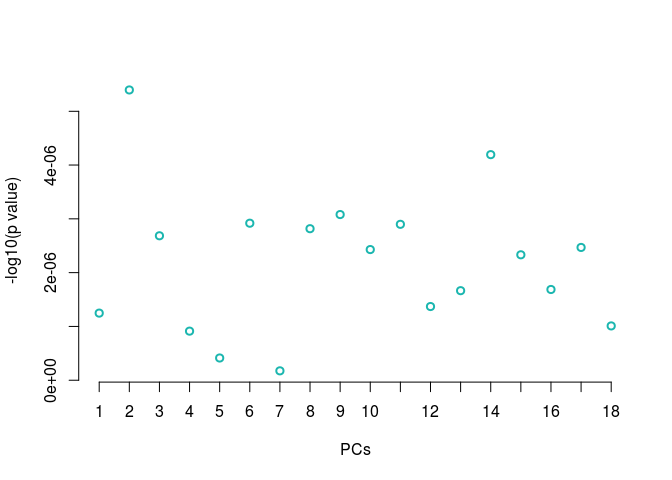
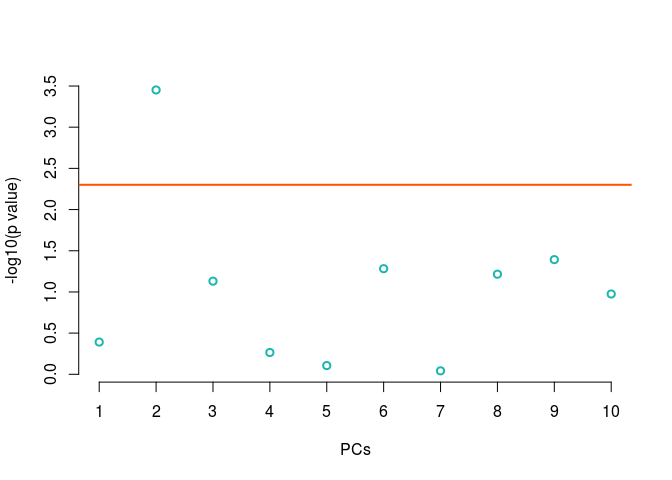
updated docs for new function

diff --git a/example.md b/example.md
@@ -31,7 +31,6 @@ library(dplyr)
 ```
 
 ```r
-library('LaCroixColoR')
 library(viridis)
 ```
 
@@ -78,13 +77,13 @@ myK = make_k(as.matrix(myG))
 #doing the eigen decomposition
 myEig = eigen(myK)
 
-plot(myEig$vectors[,1], myEig$vectors[,2], bty="n", xlab = "PC1", ylab = "PC2", col = lacroix_palette('Mango')[1])
+plot(myEig$vectors[,1], myEig$vectors[,2], bty="n", xlab = "PC1", ylab = "PC2", col = '#FF5300')
 ```
 
 ![](example_files/figure-html/kinshipmatrix-1.png)<!-- -->
 
 ```r
-plot(myEig$values/sum(myEig$values)*100, col = lacroix_palette('Mango')[3], bty="n", ylab = "% variation explained by each PC", xlab = "PC")
+plot(myEig$values/sum(myEig$values)*100, col = "#43B629", bty="n", ylab = "% variation explained by each PC", xlab = "PC")
 ```
 
 ![](example_files/figure-html/kinshipmatrix-2.png)<!-- -->
@@ -94,16 +93,15 @@ In the function:
 * myZ is a vector of trait values
 * myU is the eigen vectors of the kinship matrix
 * myLambdas is the eigen values of th ekinship matrix
-* myR is the number of PCs you want to use to estimate Va (these are PCs that correspond to smaller eigenvalues)
-* myPCcutoff is the proportion of relatedness variation you want the PCs that you test for selection to explain. So, if you want to look at the PCs that cumulatively explain 20% of relatedness variation, set pcCutoff equal to 0.2
+* myL is the range of PCs used to estimate Va
+* myM is the range of PCs used to test for selection
 
 ```r
 myQpc = calcQpc(myZ = myTraits$FT16_mean, 
                    myU = myEig$vectors, 
                    myLambdas = myEig$values,
-                   tailCutoff=1,
-                   myPCcutoff = 0.2,
-                   vapcs = 485)
+                   myM = 1:10,
+                    myL = 485:969)
 ```
 
 ## 4. Look at the Qpc output.
@@ -113,8 +111,8 @@ myQpc$pvals is a list of pvalues for each test.
 
 
 ```r
-plot(-log10(myQpc$pvals), bty="n", xlab = "PCs", ylab = "-log10(p value)", col = lacroix_palette('Mango')[4], lwd=2, xaxt="n")
-abline(h = -log10(0.05/length(myQpc$pvals)), col = lacroix_palette('Mango')[1], lwd=2)
+plot(-log10(myQpc$pvals), bty="n", xlab = "PCs", ylab = "-log10(p value)", col = "#1BB6AF", lwd=2, xaxt="n")
+abline(h = -log10(0.05/length(myQpc$pvals)), col = "#FF5300", lwd=2)
 axis(1, at = c(1:length(myQpc$pvals)))
 ```
 
@@ -124,7 +122,7 @@ Now look at specific PCs. I'm going to color plots by subpopulation but you coul
 
 ```r
 #estimate the confidence intervals
-myVaest = var0(myQpc$cm[485:969])
+myVaest = var0(myQpc$cml)
 myCI = 1.96*sqrt(myVaest*myEig$values)
 
 #plot
@@ -146,21 +144,19 @@ abline(a=mean(myTraits$FT16_mean), b = -1.96*myCI[2], lty=2, col='#56B4E9', lwd=
 
 ```r
 par(mar = c(5,8,5,14), xpd=T)
-plot(myEig$vectors[,14], myTraits$FT16_mean[-nrow(myTraits)], bty="n", col = as.factor(myTraits$group), lwd=2, ylab = "", yaxt="n",xlab = "PC14", cex.lab=2, cex.axis=2, xaxt="n")
+plot(myEig$vectors[,1], myTraits$FT16_mean[-nrow(myTraits)], bty="n", col = as.factor(myTraits$group), lwd=2, ylab = "", yaxt="n",xlab = "PC1", cex.lab=2, cex.axis=2, xaxt="n")
 axis(1, cex.axis=1.5, lwd=2)
 axis(2, las=2, cex.axis=1.5, lwd=2)
 mtext('Flowering time 16C',side=2, line=5, cex=2)
-legend(0.17, 130, levels(as.factor(myTraits$group)), pch=1, pt.lwd = 2,col = palette(), bty="n", text.width = 0.04)
+legend(0.12, 130, levels(as.factor(myTraits$group)), pch=1, pt.lwd = 2,col = palette(), bty="n", text.width = 0.04)
 par(xpd=F)
-abline(lm(myTraits$FT16_mean[-nrow(myTraits)]~myEig$vectors[,14]), lwd=2, col = "#0072B2")
-abline(a=mean(myTraits$FT16_mean), b = 1.96*myCI[14], lty=2, col='#56B4E9', lwd=2)
-abline(a=mean(myTraits$FT16_mean), b = -1.96*myCI[14], lty=2, col='#56B4E9', lwd=2)
+abline(lm(myTraits$FT16_mean[-nrow(myTraits)]~myEig$vectors[,1]), lwd=2, col = "#0072B2")
+abline(a=mean(myTraits$FT16_mean), b = 1.96*myCI[1], lty=2, col='#56B4E9', lwd=2)
+abline(a=mean(myTraits$FT16_mean), b = -1.96*myCI[1], lty=2, col='#56B4E9', lwd=2)
 ```
 
 ![](example_files/figure-html/Qpcresults2-2.png)<!-- -->
 
 
-
-TODO: environmental cline association analysis.
 
 
